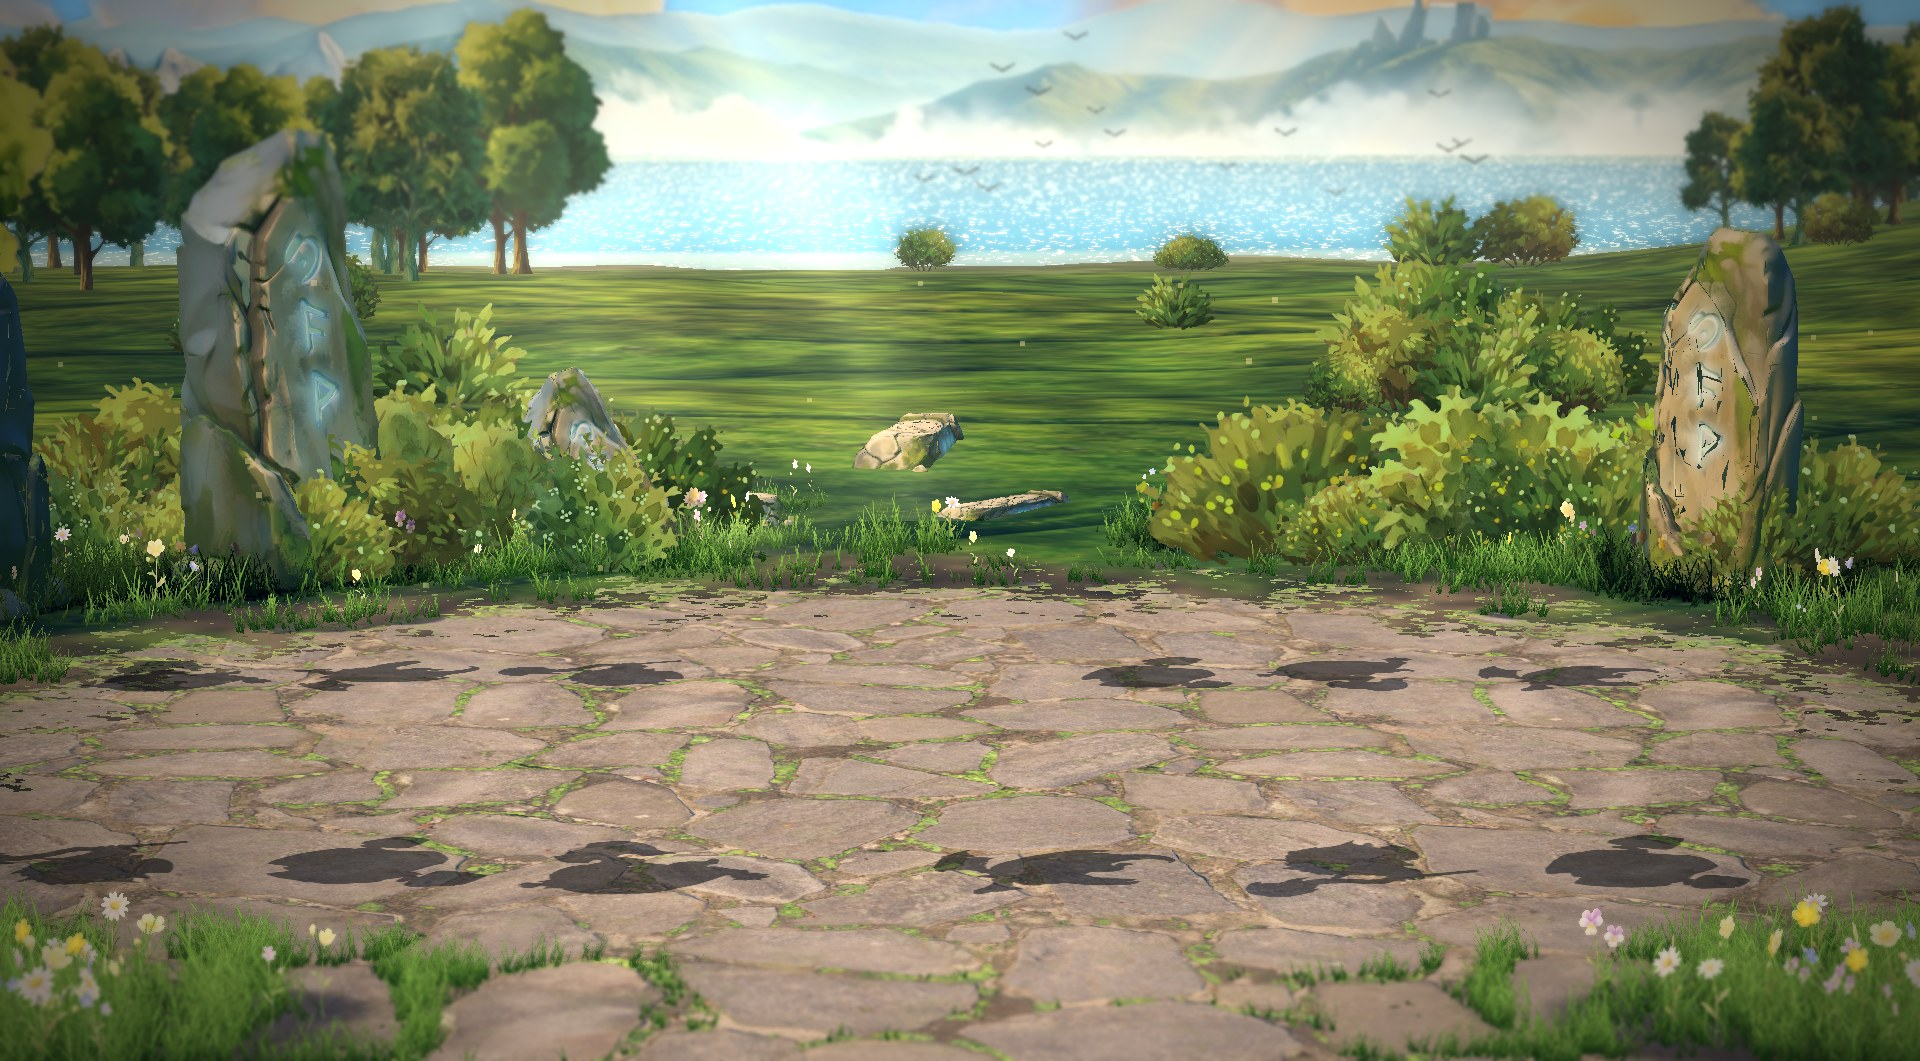
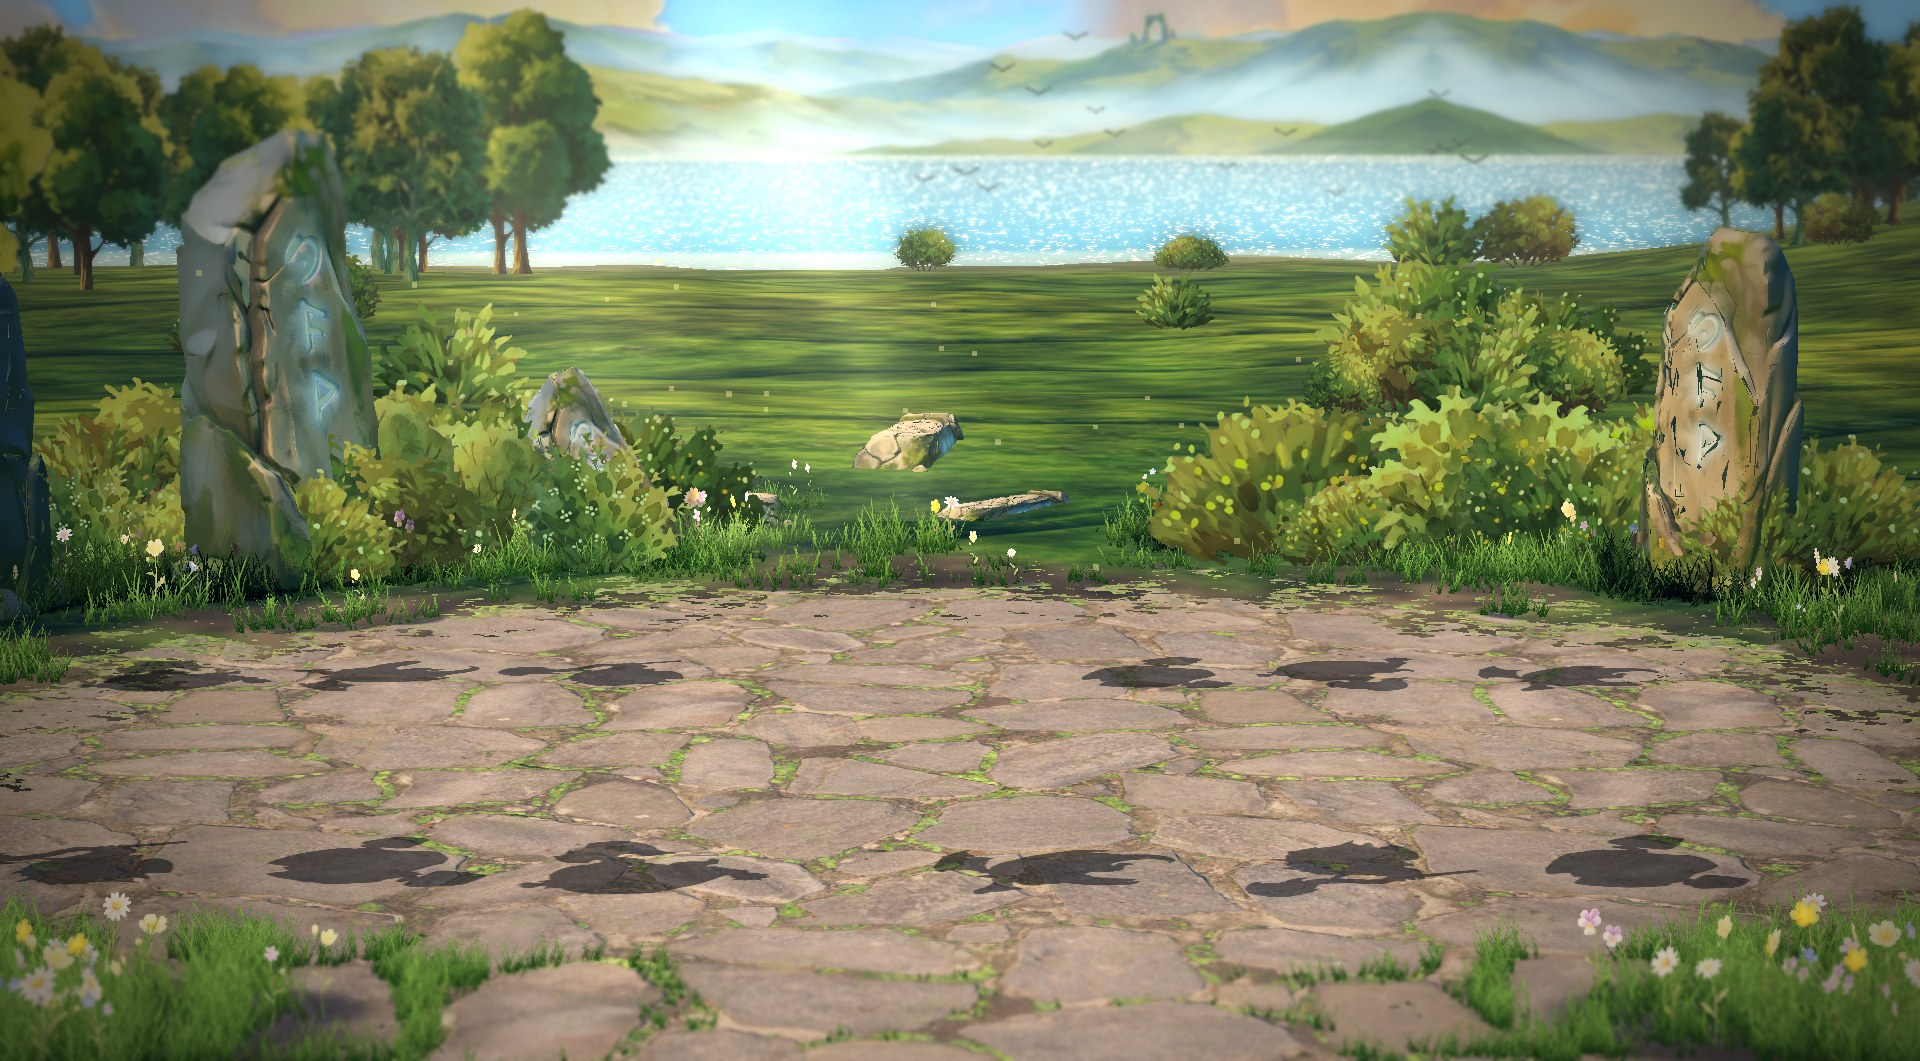
set 238 round 3: backdrop layers from the owner's earlier far_hills_v3 (3 layers, arch once); r38 re-baked, stills

diff --git a/claude/plan-set238.md b/claude/plan-set238.md
@@ -10,7 +10,7 @@ Security (HARD RULE 9): only the owner's own AI picture, plus art already in the
 3. [x] `_s238_trees` (`s238=1`): polygons measured in the picture — T2 left grove, T1 right lakeside grove, right forest from x 43 (owner green line), MM gap r 20, far trees only x > 60, groves 0.68× height + 2.8 m spacing, O1 clump of 7 bushes at (10.4,−31.5), 12 meadow shrubs.
 4. [x] `_s238_cards` (`mlpic=1`, replaces mlayers): S3/S2/S1 cut from the picture (`preview-set230/cards238.py.txt`: editor UI painted out, silhouettes snapped to the owner's lines, mirrored side pads), each facing the game camera at D 316/308/300 (z −290…−274), picture row 212 → water line, scale `mls=0.85`, `mlcon=1.18`, `mltint`.
 5. [x] Baked → `<g>/art/arena_r38/arena_r38.tscn` (891 nodes, 13 MB, self-contained, 3 S238Layer nodes). View check OK. Stills: claude/preview-set238/. Args: preview-set230/r38_args.txt.
-6. [~] Owner round 1 (Godot, 15 Nov): crossed out the right land behind the lake → `hrc=1` (both terrain copies: right hills fade out at z −185…−215, water there). Fixed in passing: trees were placed before the terrain options were read (lake shift/ridge/hrc now applied to trees too). Re-baked r38 (874 nodes), view check OK. Round 2 (owner, Godot close-up): the layers carried the picture's own foreground (right-shore trees, rock, near hill) and a white smear over the spire → painted over with mist, spire tips under the old toolbar cut, right end = mirrored clean hill (cards238.py). Re-baked, view check OK. Owner looks at the stills → tweaks (sample loop) or OK.
+6. [~] Owner round 1 (Godot, 15 Nov): crossed out the right land behind the lake → `hrc=1` (both terrain copies: right hills fade out at z −185…−215, water there). Fixed in passing: trees were placed before the terrain options were read (lake shift/ridge/hrc now applied to trees too). Re-baked r38 (874 nodes), view check OK. Round 2 (owner, Godot close-up): the layers carried the picture's own foreground (right-shore trees, rock, near hill) and a white smear over the spire → painted over with mist, spire tips under the old toolbar cut, right end = mirrored clean hill (cards238.py). Re-baked, view check OK. Round 3 (owner A1/B1): backdrop = the owner's earlier `far_hills_v3.png` (art/library/pictures/s217) — sharper painting — cut into 3 layers on its ridges (`fh238.py.txt`), side tiles mirrored with the arch cut out so it shows once; `mlset=fh_ mlpad=2048 mlu0=1024 mlv0=375 mls=0.47 mldy=22`. The picture cut (S1–S3 from the overhead picture) stays as the default when `mlset` is not given. Re-baked, view check OK. Owner looks at the stills → tweaks (sample loop) or OK.
 7. [ ] rule-change art-style §8: r38 = the arena (was plan-set237 step 6) → plan-set236 step 4 ports `arena_r38`.
 
 ## Known gaps
